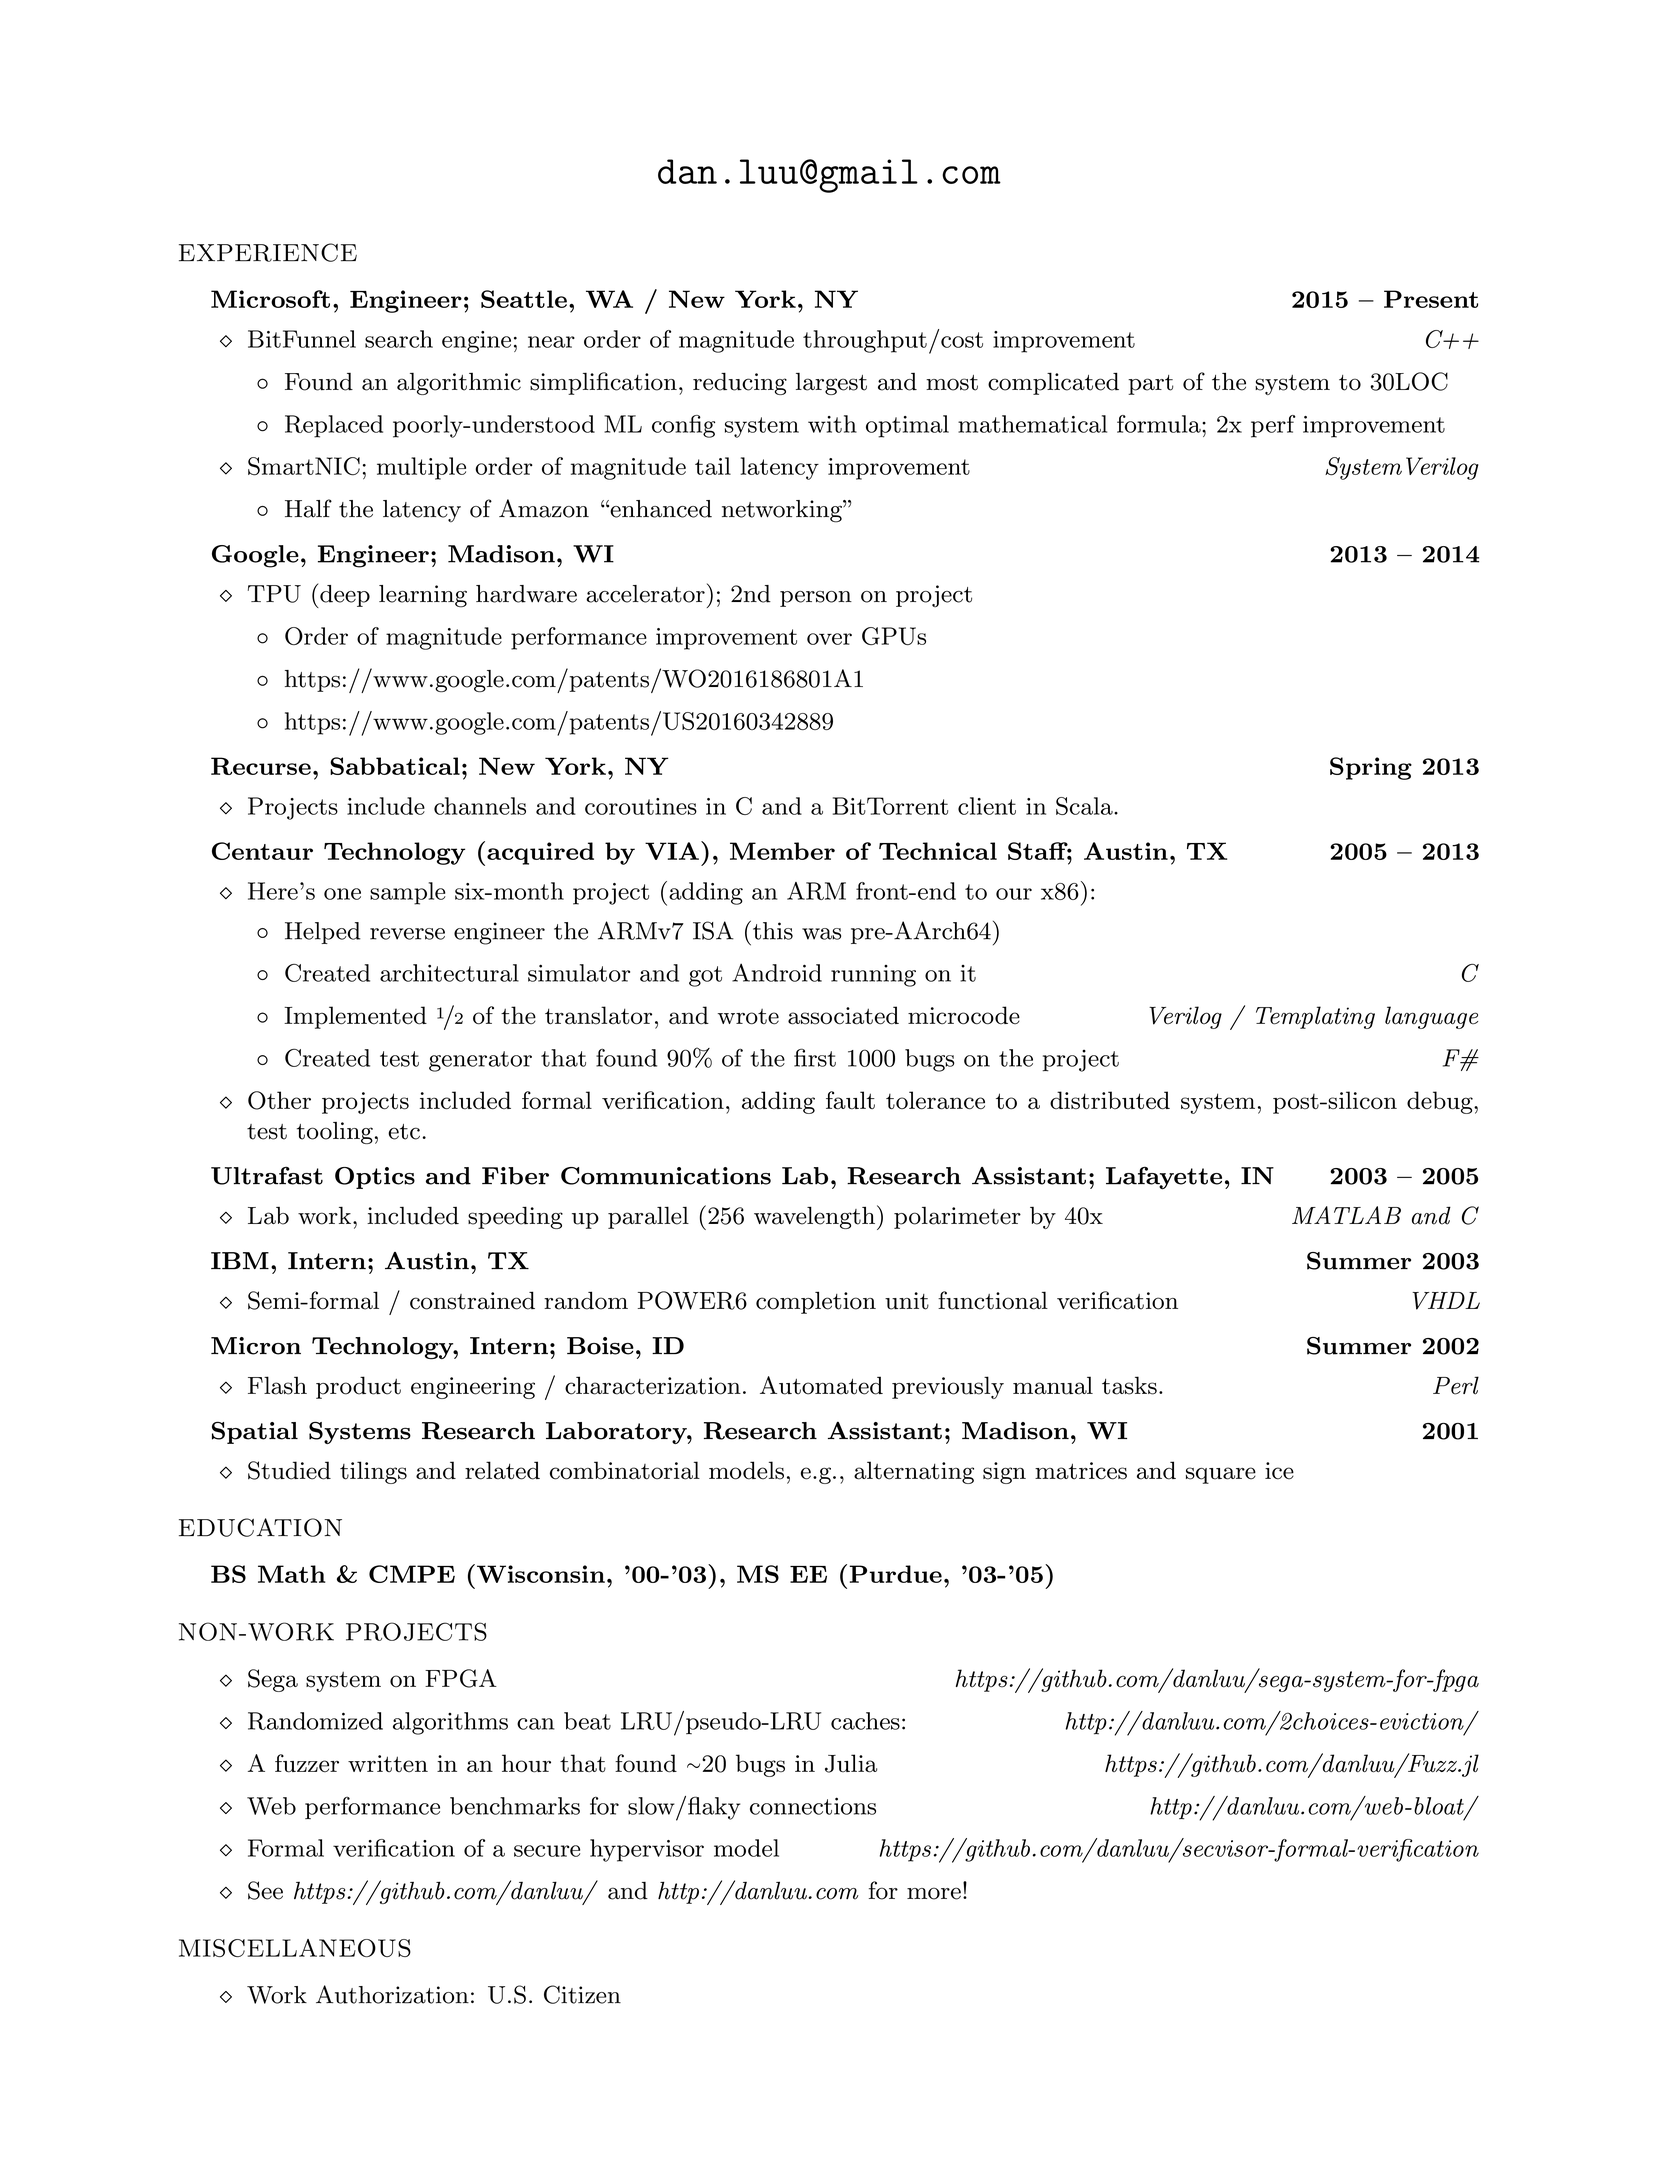
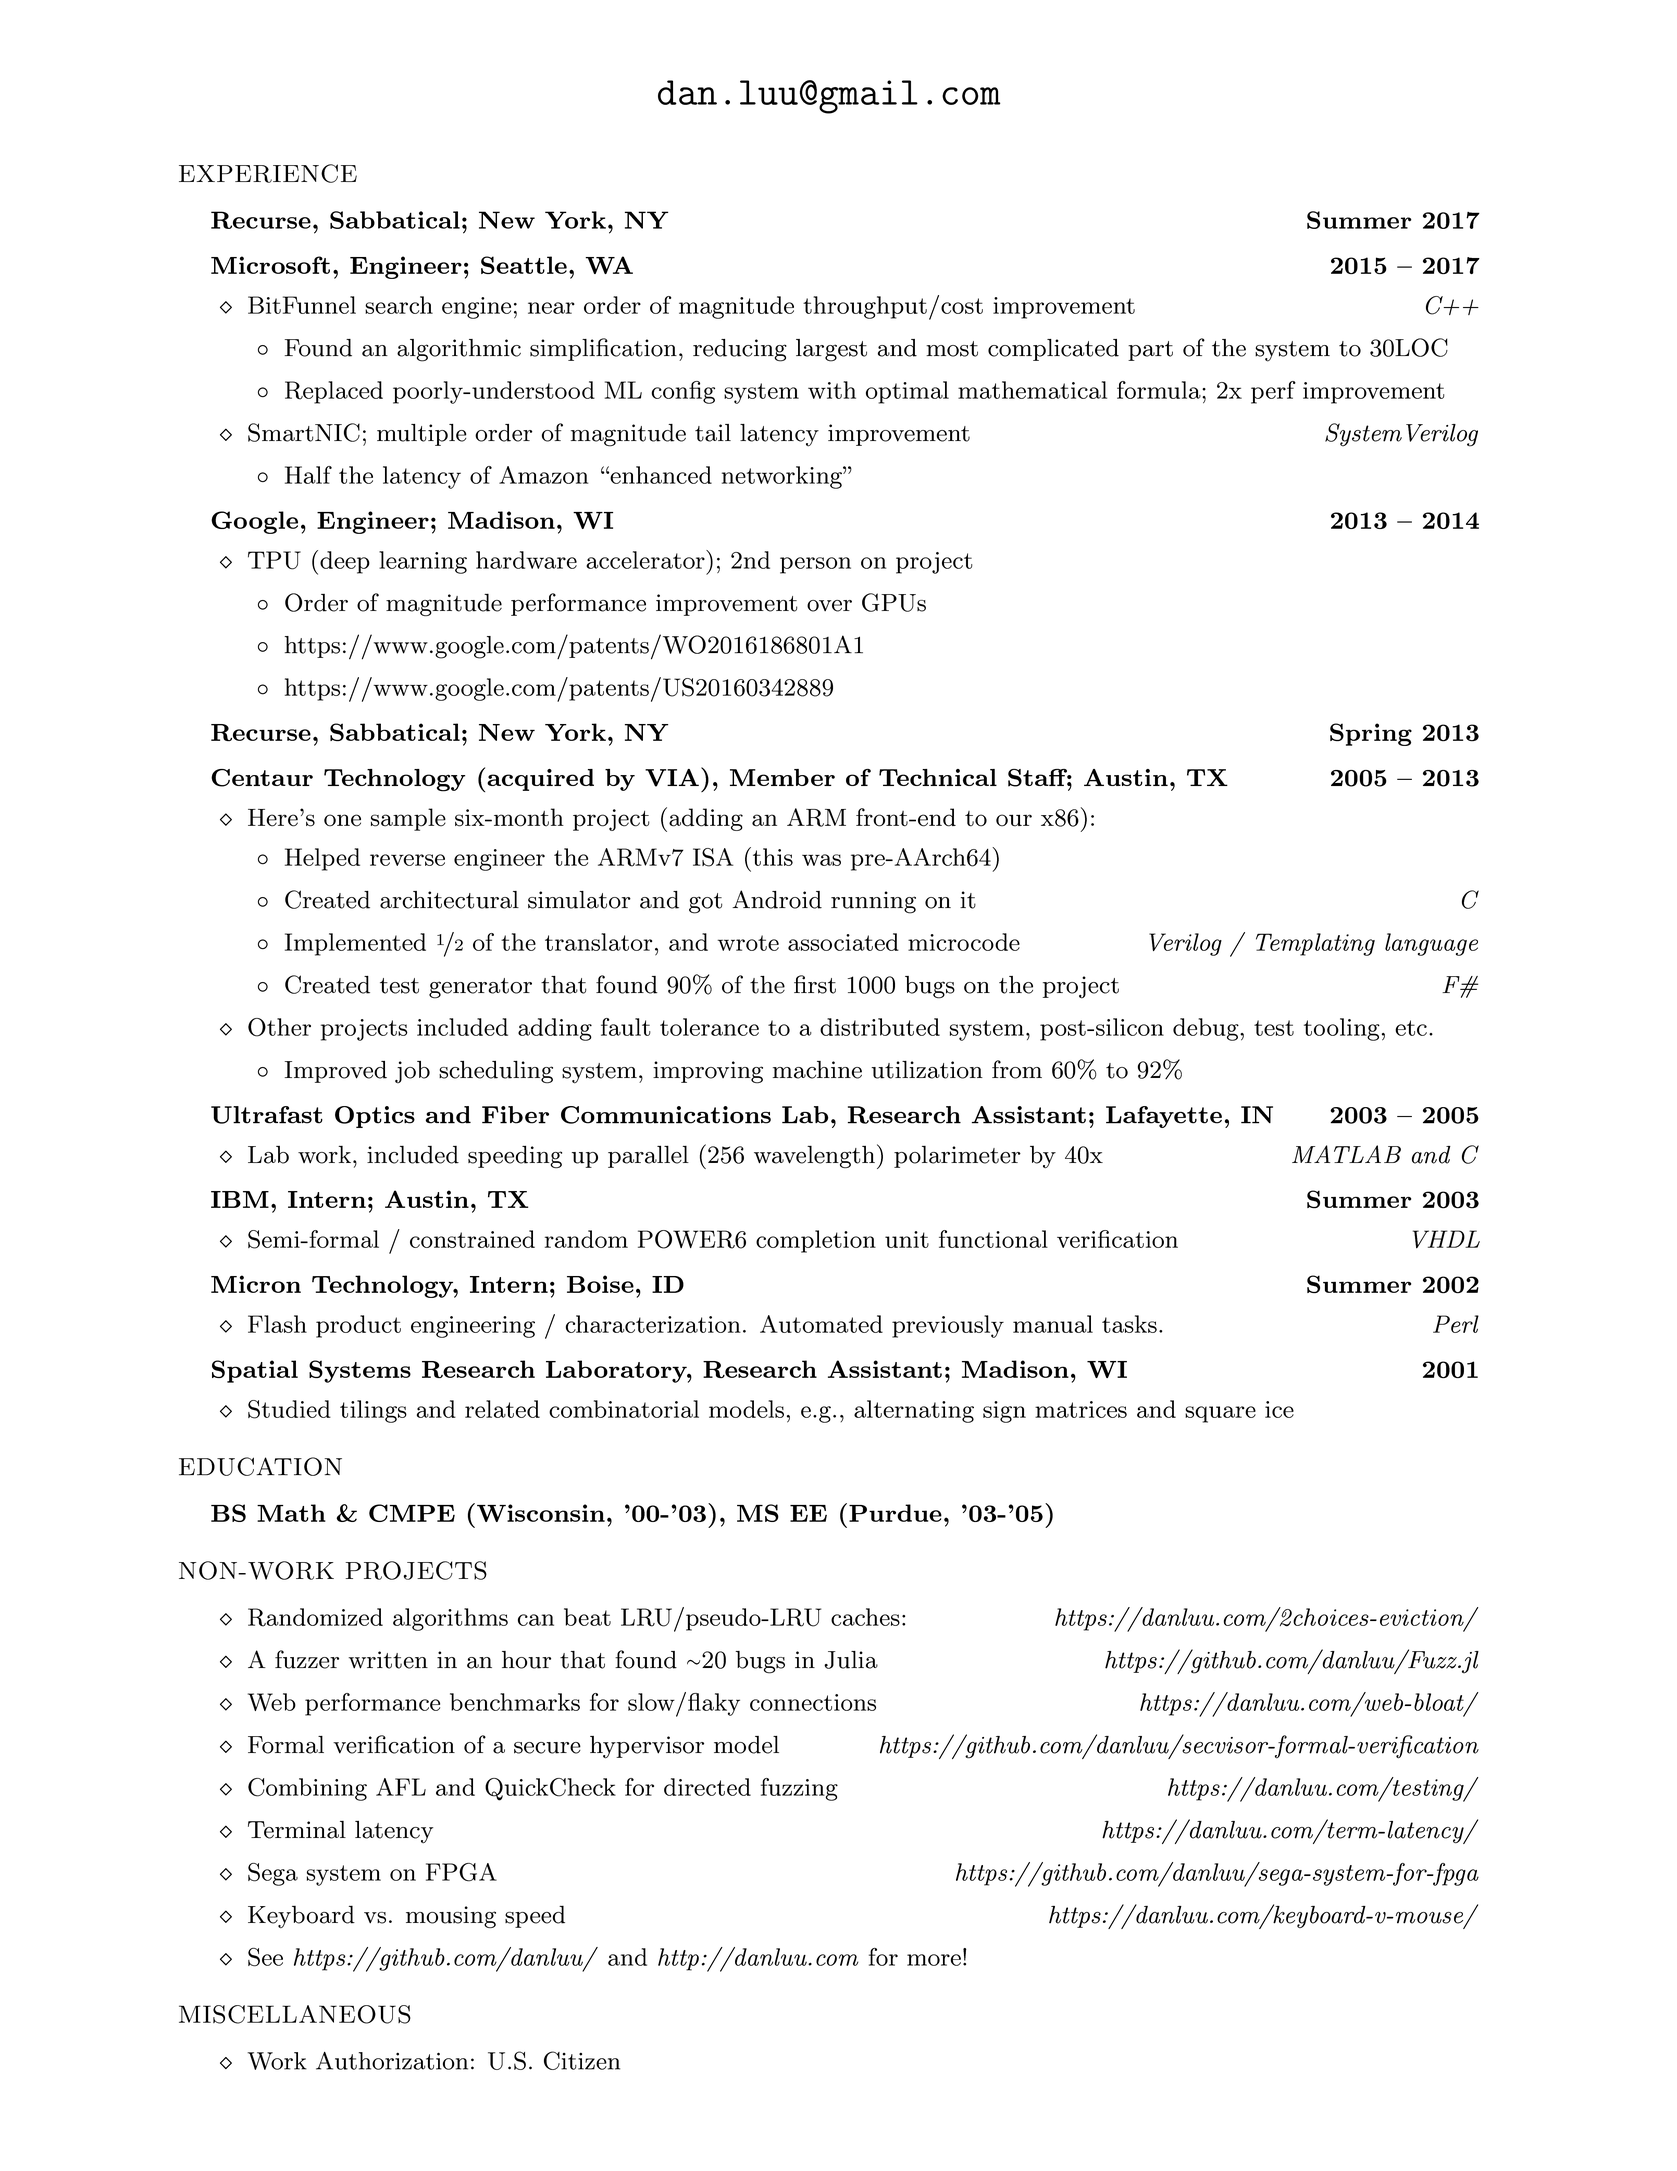
Update with recent activities, new stint at RC.

diff --git a/resume.tex b/resume.tex
@@ -7,12 +7,12 @@
 
 \begin{document}
 %\title{Dan Luu}
-\title{\vspace{-6ex}\tt{dan.luu@gmail.com}}
-\date{\vspace{-10ex}}
-\author{}
+\title{\tt{dan.luu@gmail.com}}
+% \date{\vspace{-10ex}}
+% \author{}
 %\maketitle
 
-\email{danluu@gmail.com}
+% \email{danluu@gmail.com}
 %\footnotesize
 %\setstretch{.9}
 %
@@ -20,7 +20,6 @@
 %
 
 %\vspace{-3pt}
-
 \mag 1000
 
 %
@@ -40,7 +39,9 @@
 \begin{list1}
 
 
-\item \begin{tabular1bold} Microsoft, Engineer; Seattle, WA / New York, NY & 2015 -- Present \end{tabular1bold}
+\item \begin{tabular1bold} Recurse, Sabbatical; New York, NY & Summer 2017 \end{tabular1bold}
+
+\item \begin{tabular1bold} Microsoft, Engineer; Seattle, WA & 2015 -- 2017 \end{tabular1bold}
 
   \begin{list2}
   \item BitFunnel search engine; near order of magnitude throughput/cost improvement \hfill \emph{C++}
@@ -72,10 +73,10 @@
 
 \item \begin{tabular1bold} Recurse, Sabbatical; New York, NY & Spring 2013 \end{tabular1bold}
 
-  \begin{list2}
-  \item Projects include channels and coroutines in C and a BitTorrent client in Scala.
+  % \begin{list2}
+  % \item Projects include channels and coroutines in C and a BitTorrent client in Scala.
   % \item See https://github.com/danluu/ and http://danluu.com for more.
-  \end{list2}
+  % \end{list2}
 \item \begin{tabular1bold} Centaur Technology (acquired by VIA), Member of Technical Staff; Austin, TX & 2005 -- 2013 \end{tabular1bold}
 
   %\begin{adjustwidth}{1.5em}{1.5em}
@@ -90,7 +91,11 @@
     \end{list3}
 
   % \item x86 and ARM chip design and verification \hfill \emph{Verilog / scripting languages}
-  \item Other projects included formal verification, adding fault tolerance to a distributed system, post-silicon debug, test tooling, etc.
+  \item Other projects included adding fault tolerance to a distributed system, post-silicon debug, test tooling, etc.
+
+    \begin{list3}
+    \item Improved job scheduling system, improving machine utilization from 60\% to 92\%
+    \end{list3}
 
   \end{list2}
   %\end{adjustwidth}
@@ -137,11 +142,14 @@
 \begin{list1}
 \item
   \begin{list2}
-    \item Sega system on FPGA \hfill \emph{https://github.com/danluu/sega-system-for-fpga}
-    \item Randomized algorithms can beat LRU/pseudo-LRU caches:  \hfill \emph{http://danluu.com/2choices-eviction/}
+    \item Randomized algorithms can beat LRU/pseudo-LRU caches:  \hfill \emph{https://danluu.com/2choices-eviction/}
     \item A fuzzer written in an hour that found {\raise.17ex\hbox{$\scriptstyle\mathtt{\sim}$}}20 bugs in Julia \hfill \emph{https://github.com/danluu/Fuzz.jl}
-    \item Web performance benchmarks for slow/flaky connections \hfill \emph{http://danluu.com/web-bloat/}
+    \item Web performance benchmarks for slow/flaky connections \hfill \emph{https://danluu.com/web-bloat/}
     \item Formal verification of a secure hypervisor model \hfill \emph{https://github.com/danluu/secvisor-formal-verification}
+    \item Combining AFL and QuickCheck for directed fuzzing \hfill \emph{https://danluu.com/testing/}
+    \item Terminal latency \hfill \emph{https://danluu.com/term-latency/}
+    \item Sega system on FPGA \hfill \emph{https://github.com/danluu/sega-system-for-fpga}
+    \item Keyboard vs. mousing speed \hfill \emph{https://danluu.com/keyboard-v-mouse/}
     \item See \emph{https://github.com/danluu/} and \emph{http://danluu.com} for more!
   \end{list2}
 \end{list1}
